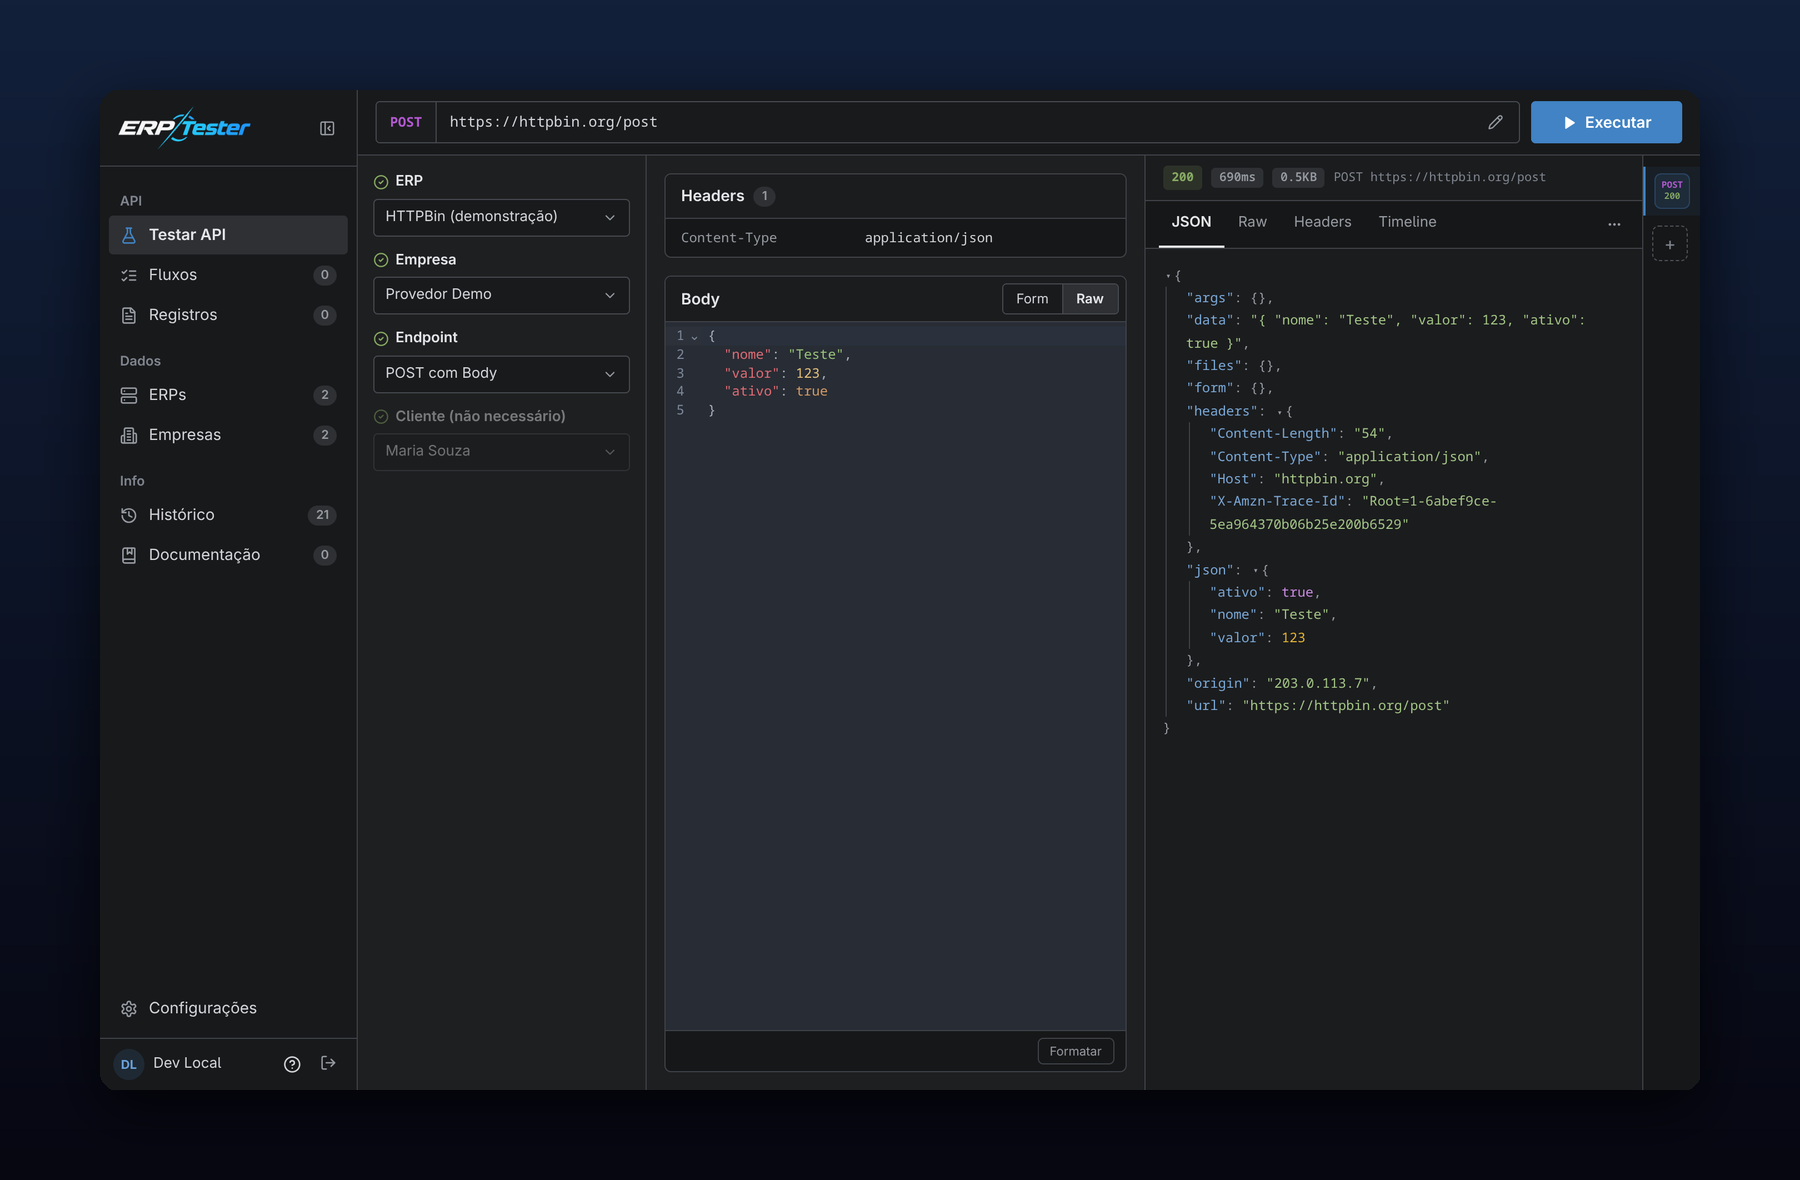
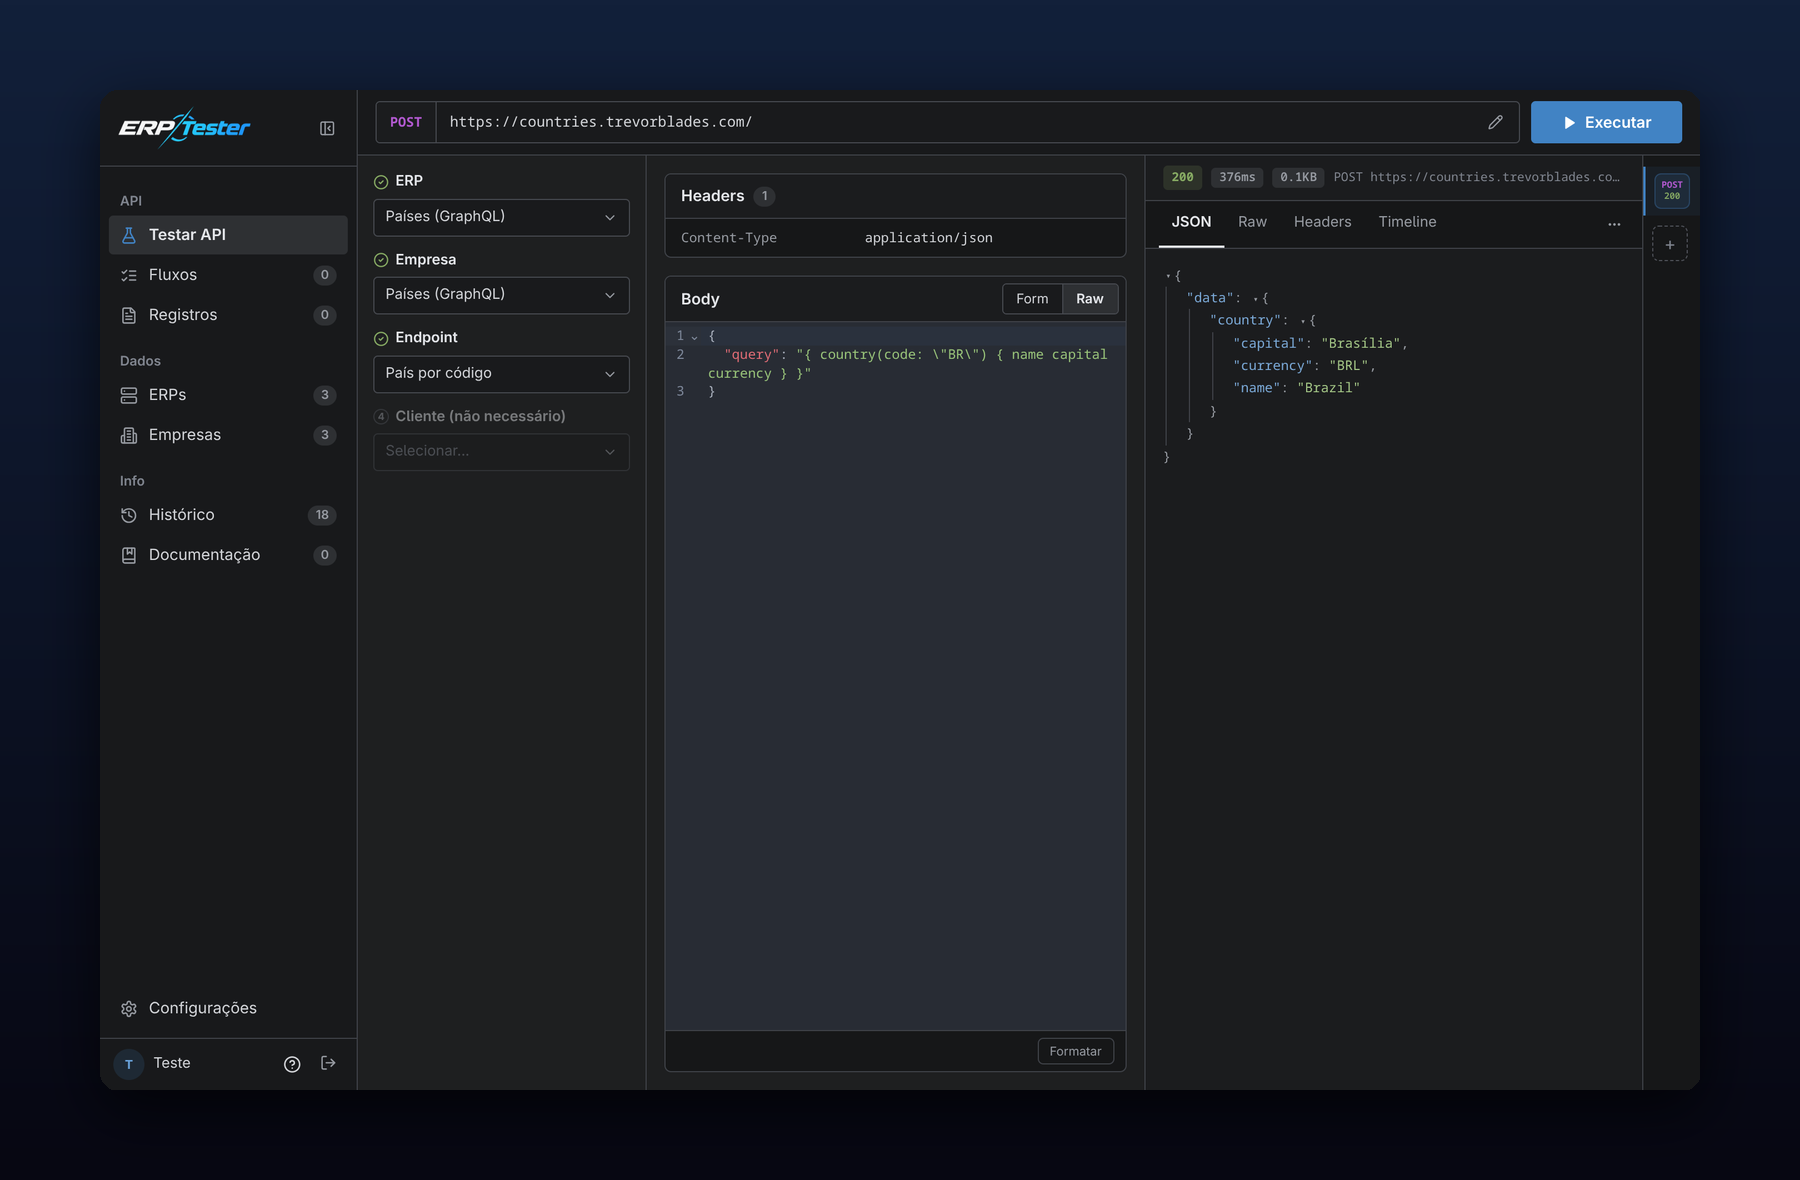
docs: README sem provedores, seção REST, SOAP e GraphQL e capturas novas

diff --git a/README.md b/README.md
@@ -2,10 +2,10 @@
 
 <img alt="ERP Tester" src="docs/screenshots/logo-banner.png" width="600">
 
-### Teste, documente e compartilhe as APIs dos ERPs de provedores de internet
+### Teste, documente e compartilhe as APIs dos seus sistemas, em equipe
 
-Credenciais de cada empresa num lugar só, token renovado sozinho e o time inteiro vendo o mesmo histórico.
-Vem pronto para **IXC Provedor, SGP, Hubsoft, Voalle e MK Solutions**.
+REST, SOAP e GraphQL. Credenciais de cada empresa num lugar só, token renovado sozinho
+e o time inteiro vendo o mesmo histórico. Roda no seu servidor.
 
 [![Licença MIT](https://img.shields.io/badge/licen%C3%A7a-MIT-4183c4?style=flat-square)](LICENSE)
 [![gitleaks](https://img.shields.io/github/actions/workflow/status/arktnld/erp-api-tester/gitleaks.yml?branch=master&label=gitleaks&style=flat-square)](https://github.com/arktnld/erp-api-tester/actions/workflows/gitleaks.yml)
@@ -15,28 +15,27 @@ Vem pronto para **IXC Provedor, SGP, Hubsoft, Voalle e MK Solutions**.
 ![Docker](https://img.shields.io/badge/Docker-pronto-2496ed?style=flat-square&logo=docker&logoColor=white)
 [![PRs bem-vindos](https://img.shields.io/badge/PRs-bem--vindos-2ea44f?style=flat-square)](#contribuindo)
 
-[Instalação](#instalação-numa-vps-ubuntudebian) · [Docker](#docker) · [Desenvolvimento](#desenvolvimento) · [Modelos de ERP](#modelos-de-erp) · [Contribuindo](#contribuindo)
+[Instalação](#instalação-numa-vps-ubuntudebian) · [Docker](#docker) · [Desenvolvimento](#desenvolvimento) · [REST, SOAP e GraphQL](#rest-soap-e-graphql) · [Contribuindo](#contribuindo)
 
 <br>
 
-<img src="docs/screenshots/hero.png" alt="Tela Testar API: requisição POST e resposta JSON" width="100%">
+<img src="docs/screenshots/hero.png" alt="Tela Testar API: consulta GraphQL e a resposta" width="100%">
 
 </div>
 
 ## Por que existe
 
-Quem integra com ERP de provedor vive com coleções do Postman espalhadas por cada máquina, tokens vencendo no
-meio do teste e credenciais coladas em conversa. O ERP Tester junta isso num lugar: cada empresa guarda as
-próprias credenciais (mascaradas no histórico), o token é obtido e renovado sozinho, e qualquer pessoa do time
-repete a chamada que outra fez.
+Quem integra com ERPs e outros sistemas vive com coleções do Postman espalhadas por cada máquina, tokens
+vencendo no meio do teste e credenciais coladas em conversa. O ERP Tester junta isso num lugar: cada empresa
+(cliente, ambiente ou filial) guarda as próprias credenciais, mascaradas no histórico; o token é obtido e
+renovado sozinho; e qualquer pessoa do time repete a chamada que outra fez.
 
 ## Primeira chamada em 2 minutos
 
-Na primeira entrada um assistente pergunta qual ERP vocês usam (ou descobre sozinho pela URL da API), cadastra
-a empresa, testa a conexão explicando o erro em português e faz a primeira busca de cliente pelo CPF, já
-preenchendo os dados do cliente de teste.
+Na primeira entrada, um assistente pergunta o tipo da API (REST, SOAP ou GraphQL), o endereço e a
+autenticação, faz uma chamada de verdade e explica em português o que deu errado, se der.
 
-<img src="docs/screenshots/setup.png" alt="Assistente de primeira configuração com os modelos de ERP" width="100%">
+<img src="docs/screenshots/setup.png" alt="Assistente de primeira configuração" width="100%">
 
 ## O que tem
 
@@ -79,17 +78,19 @@ E também:
 - **Usuários**: admin, editor e leitor, com login próprio (senhas scrypt, sessões no banco, bloqueio após tentativas erradas)
 - **Segurança**: chamadas só para a URL da empresa, bloqueio de IPs internos (SSRF), credenciais nunca vão para o navegador de quem não pode vê-las
 
-## Modelos de ERP
+## REST, SOAP e GraphQL
 
-| ERP | Endpoints prontos | Autenticação |
-|---|---|---|
-| IXC Provedor | 27 | Usuário e token (Basic) |
-| SGP | 23 | Token + app no corpo, ou Basic |
-| MK Solutions | 14 | Token obtido no WSAutenticacao |
-| Voalle | 11 | OAuth2 (client credentials ou password) |
-| Hubsoft | 9 | OAuth2 com renovação automática |
+Como no [Bruno](https://github.com/usebruno/bruno), SOAP e GraphQL são chamadas HTTP: o que muda é o corpo e o `Content-Type`.
 
-Seu ERP não está aqui? Importe a coleção Postman ou o OpenAPI dele, ou [contribua com um modelo](#contribuindo).
+| Tipo | Como fica no ERP Tester |
+|---|---|
+| REST / JSON | Qualquer método, `{placeholders}` no caminho e no corpo, resposta JSON navegável |
+| SOAP / XML | POST com o envelope XML (`text/xml` ou `application/soap+xml`), resposta XML formatada |
+| GraphQL | POST com `{"query": ..., "variables": ...}` num único endpoint |
+
+<img src="docs/screenshots/soap.png" alt="Chamada SOAP com envelope XML e a resposta" width="100%">
+
+Os endpoints entram um a um ou importados de uma coleção Postman, OpenAPI ou curl.
 
 ## Stack
 
@@ -138,7 +139,6 @@ A única variável obrigatória é `DATABASE_URL`.
 
 ```
 apps/web/             aplicação Next.js (app/, components/, lib/)
-  lib/erp-templates/  modelos prontos de ERP (JSON)
 packages/db/          schema e migrations do Prisma
 scripts/              instalação e deploy na VPS
 docs/screenshots/     imagens deste README
@@ -149,7 +149,6 @@ docs/screenshots/     imagens deste README
 Issues e pull requests são bem-vindos.
 
 - Testes: `pnpm --filter web exec vitest run`
-- Um modelo de ERP novo é um JSON em `apps/web/lib/erp-templates/` mais uma linha em `index.ts`; o teste ao lado confere a estrutura.
 - Nunca coloque credenciais, nomes de clientes ou IPs reais em código, testes ou capturas de tela. O gitleaks barra segredos em todo push.
 
 ## Licença
